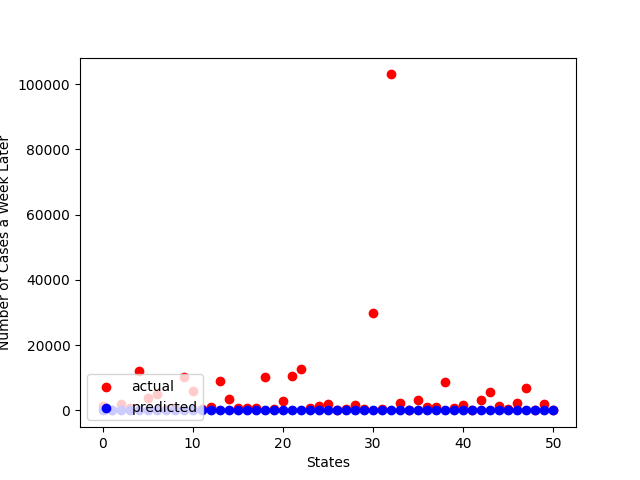
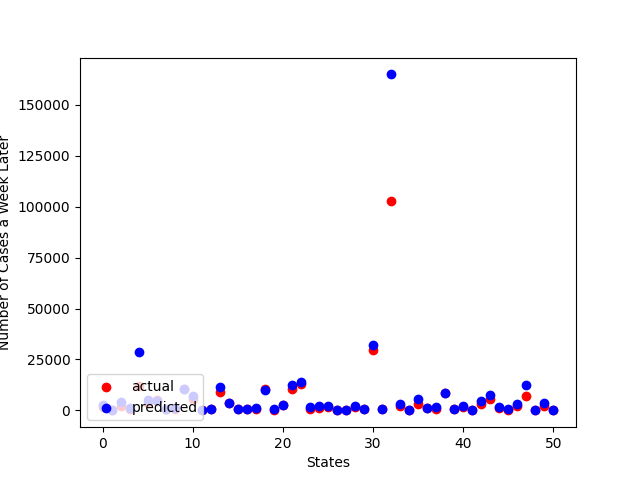
distributed training and validation complete

diff --git a/distributed/pytorch_distributed_model.py b/distributed/pytorch_distributed_model.py
@@ -198,7 +198,7 @@ def validate(validation_loader, model):
         plt.xlabel("States")
         plt.ylabel("Number of Cases a Week Later")
         plt.legend(loc="lower left")
-        if i % 5 == 0:
+        if i % 2 == 0:
             plt.savefig('graph_results-{}.png'.format(i))
         i = i + 1
 
@@ -235,7 +235,7 @@ def init_process(rank, world_size, backend='gloo'):
     train_loader = DataLoader(train_data, batch_size=10)
     valid_loader = torch_geometric.data.DataLoader(valid_data, batch_size=1)
 
-    for epoch in range(5):
+    for epoch in range(50):
         print("Current epoch", epoch)
         train_sampler.set_epoch(epoch)
         train(train_loader, model, criterion, optimizer, epoch)
